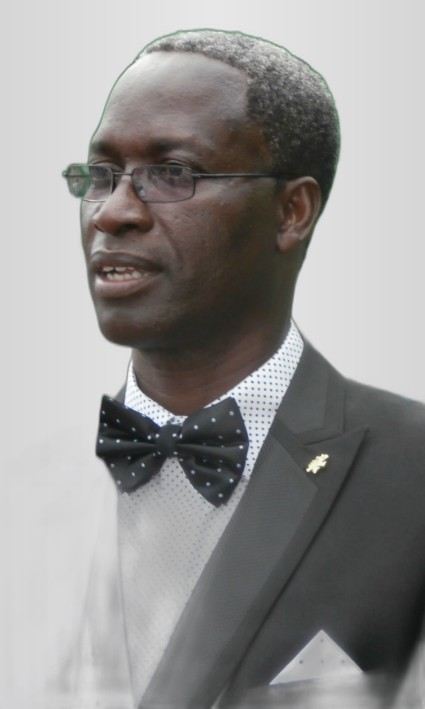
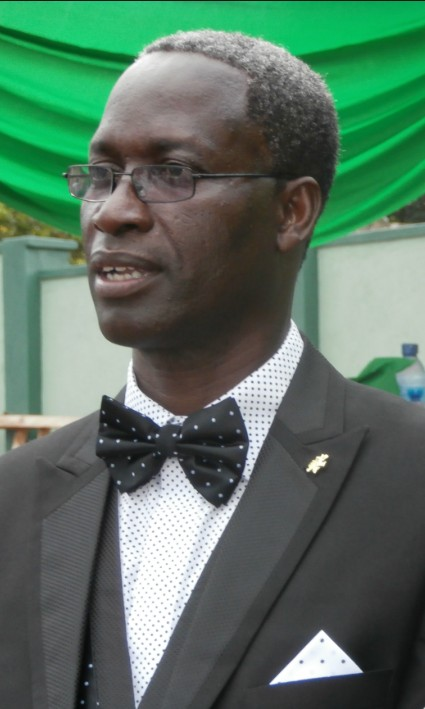
Restore original advisor photo backgrounds.

diff --git a/index.html b/index.html
@@ -291,13 +291,13 @@
       <p class="team-label" id="advisors">Advisors</p>
       <div class="advisor-grid">
         <article class="advisor-card advisor-card--filled">
-          <img class="person-photo" src="assets/advisor-fordjour.jpg?v=2" alt="Prof. Dr. Samuel Nana Fordjour" width="425" height="709" loading="lazy" decoding="async">
+          <img class="person-photo" src="assets/advisor-fordjour.jpg?v=3" alt="Prof. Dr. Samuel Nana Fordjour" width="425" height="709" loading="lazy" decoding="async">
           <h3>Prof. Dr. Samuel Nana Fordjour,</h3>
           <p class="advisor-creds">MBCHB, MPH, PhD</p>
           <p class="person-meta">CEO, TRINITY HEALTHCARE, Kumasi</p>
         </article>
         <article class="advisor-card advisor-card--filled">
-          <img class="person-photo" src="assets/advisor-anane.jpg?v=2" alt="Dr. Agnes Achiamaa Anane" width="189" height="231" loading="lazy" decoding="async">
+          <img class="person-photo" src="assets/advisor-anane.jpg?v=3" alt="Dr. Agnes Achiamaa Anane" width="189" height="231" loading="lazy" decoding="async">
           <h3>Dr. Agnes Achiamaa Anane,</h3>
           <p class="advisor-creds">MBCHB, MWACP, MGCP, MBA, MPH</p>
           <p class="person-meta">Deputy Director, Clinical Care, Ghana Health Service</p>
